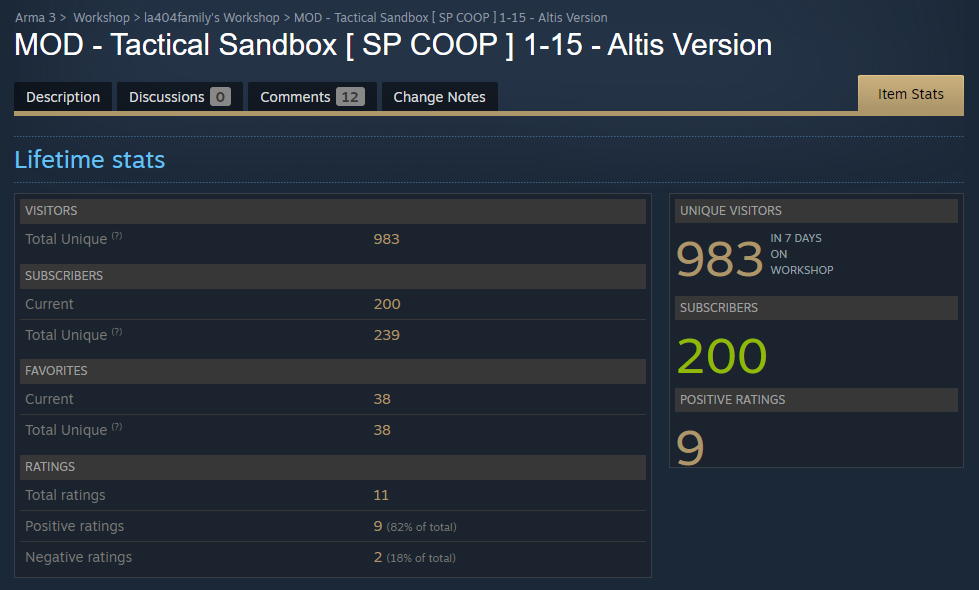
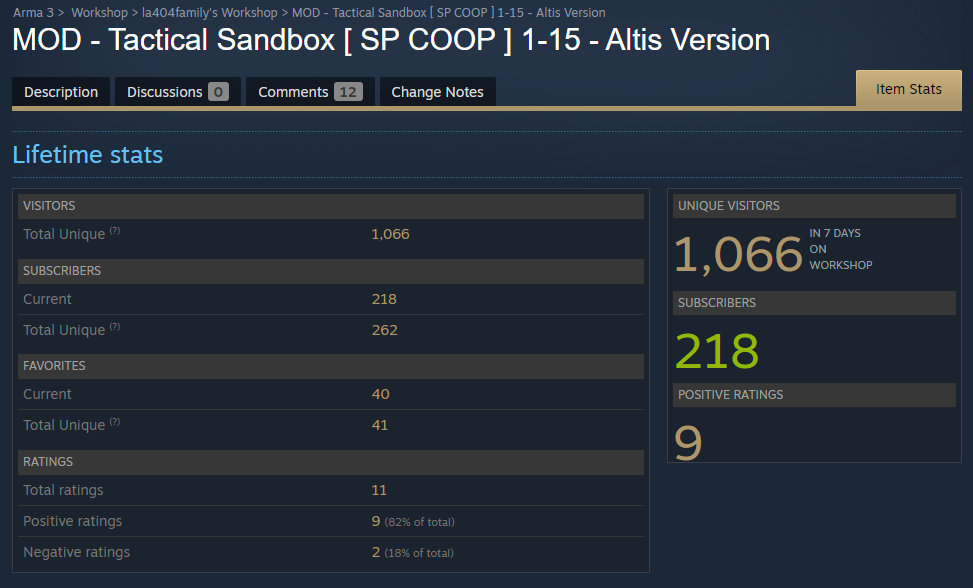
readme2

Changed region(s): [[0.0, 0.2449, 0.9866, 0.9796], [0.0, 0.0918, 1.0, 0.2143], [0.0, 0.0, 0.8016, 0.0918]]

diff --git a/README.md b/README.md
@@ -120,7 +120,7 @@ Heavy infantry presence — strike hard and fast.
 
 This project has been well-received by the Arma 3 community! Here is a snapshot of the current performance on the Steam Workshop:
 
-- **👥 Unique Visitors:** 986 players have checked out the mission page.
-- **✅ Subscribers:** 200 players have subscribed and installed the mission.
-- **⭐ Favorites:** 38 players have added it to their favorites list.
-- **👍 Positive Ratings:** 82% Positive ratings (9 positive out of 11 total).
+- **👥 Unique Visitors:** +1000 players have checked out the mission page.
+- **✅ Subscribers:** +200 players have subscribed and installed the mission.
+- **⭐ Favorites:** +40 players have added it to their favorites list.
+- **👍 Positive Ratings:** +82% Positive ratings (9 positive out of 11 total).
